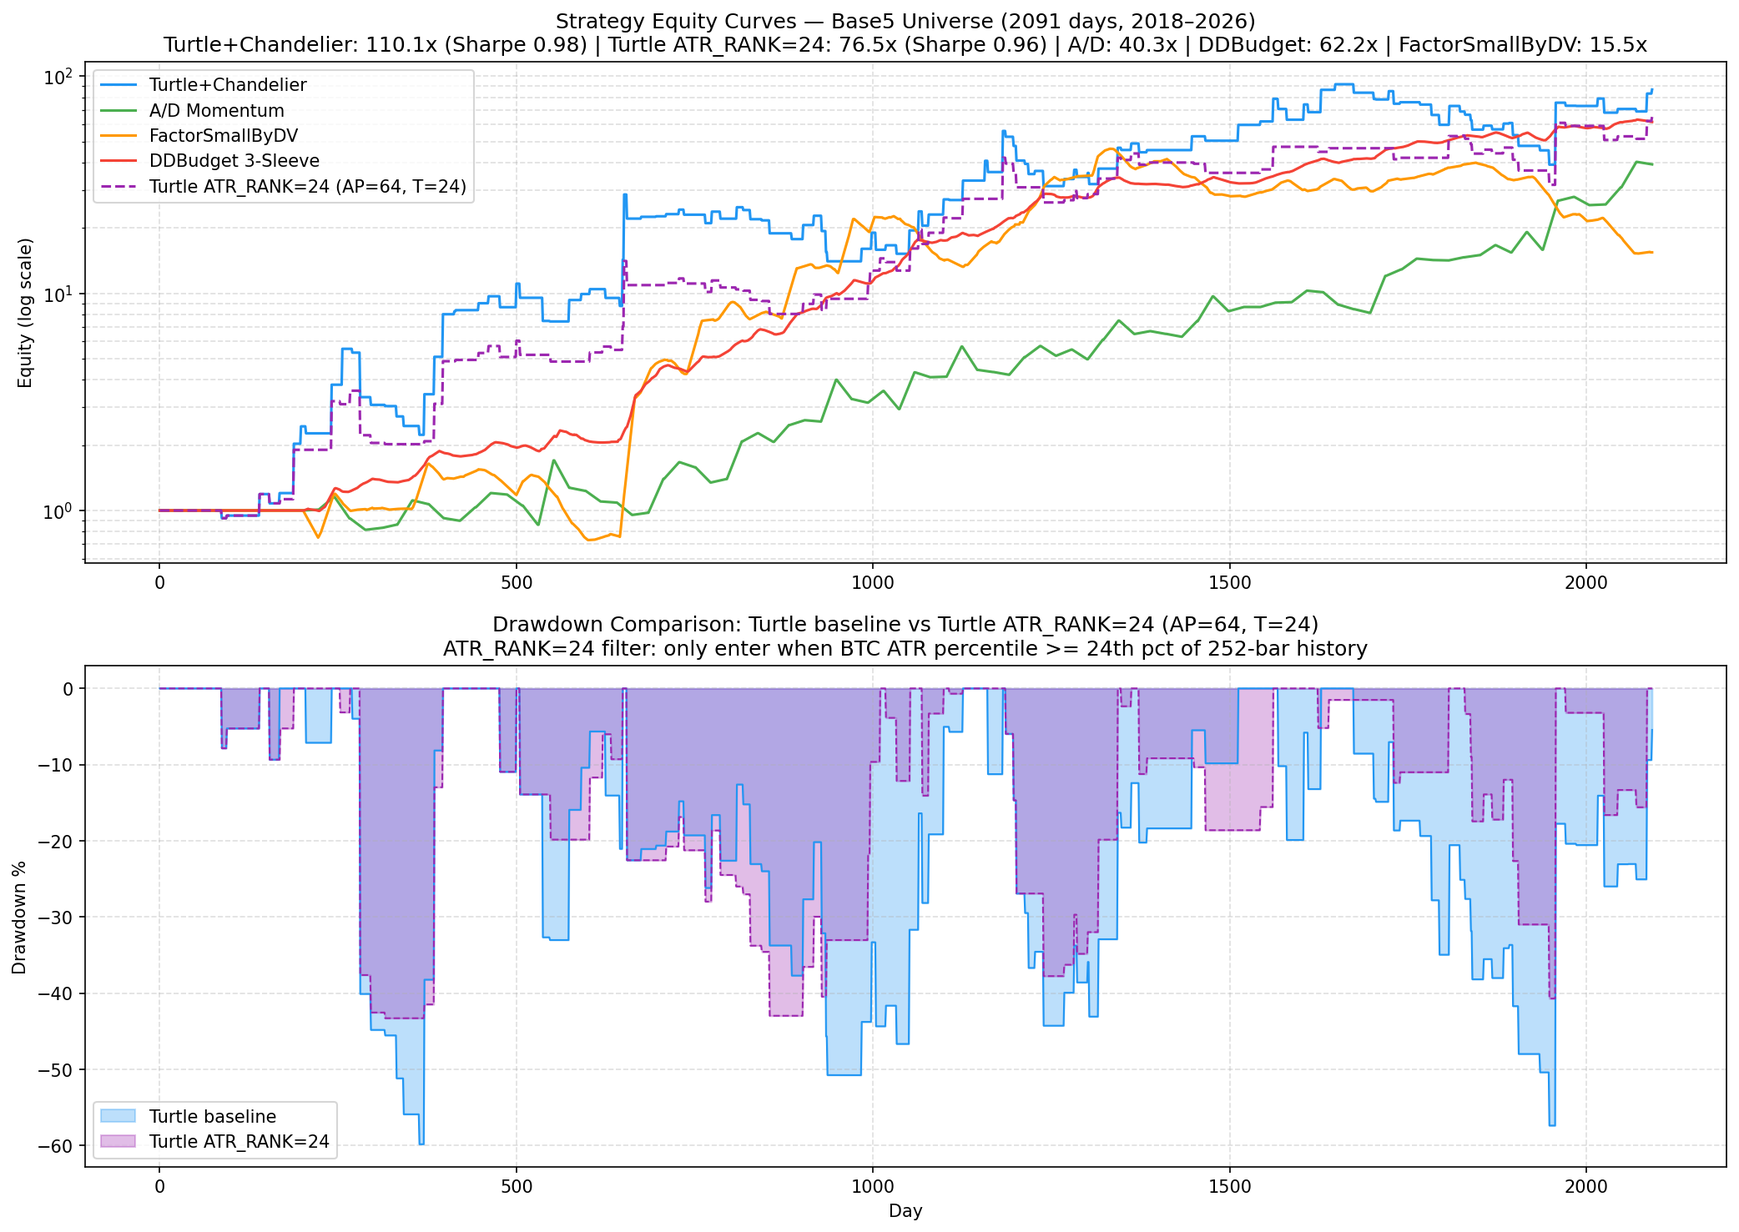
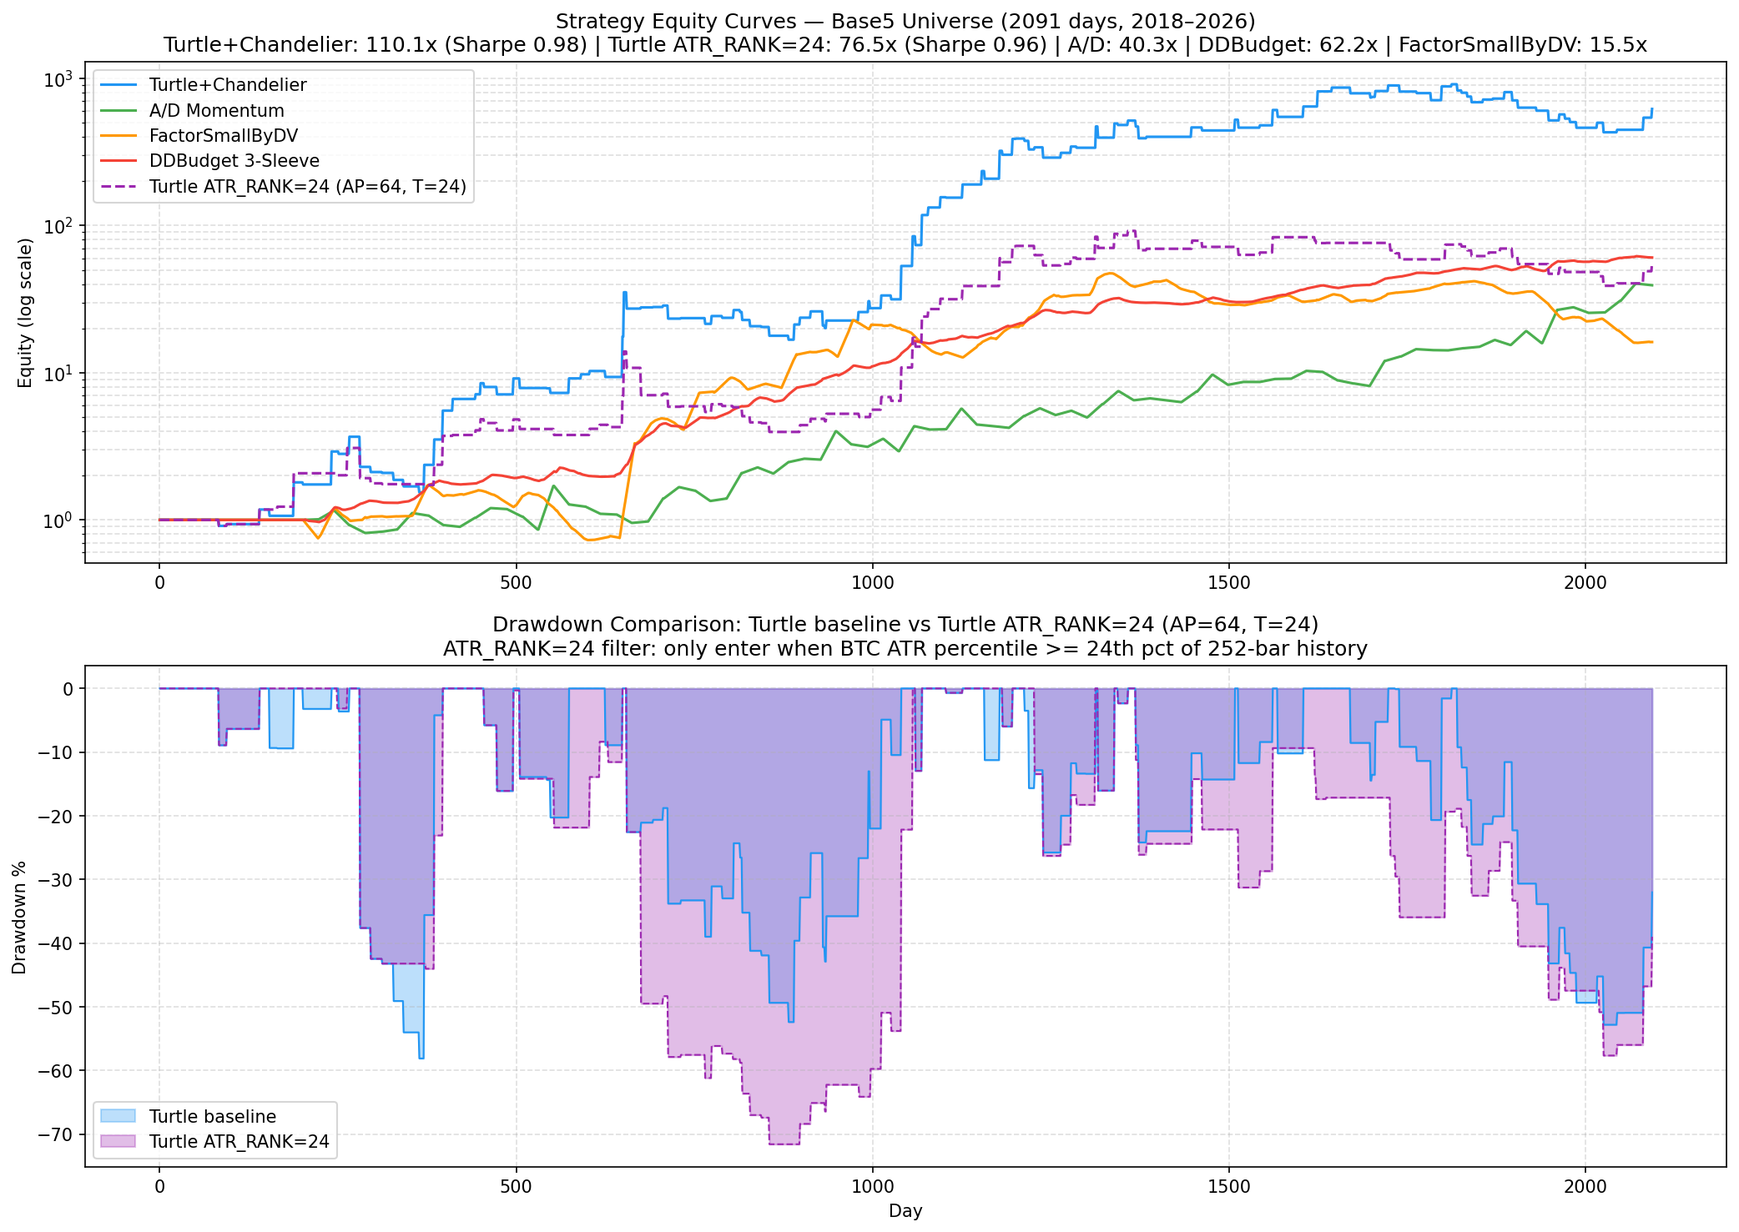
chore: daily progress tracking 2026-05-05
- progress_equity_curves.rs: Turtle+Chandelier 619.9x / Sharpe 1.19
- Turtle ATR_RANK=24 (live bot): 56.1x / Sharpe 0.91
- live_turtle_chandelier dry-run: 83% WF pass, Sharpe 6.12, Base5 100%
- charts + daily_progress.csv updated

diff --git a/memory/2026-05-05.md b/memory/2026-05-05.md
@@ -1,276 +1,57 @@
-# Kira Critique — 2026-05-05 08:05 UTC
+# Memory — 2026-05-05
 
-## Session 08:05 UTC — Critical Findings
+## [15:51 UTC] Cron — Daily Progress Report + Equity Tracking — Kira
 
-### CRITIQUE CYCLE #2. State: EXECUTION FAILURE (4 consecutive cycles).
+### Orient
+- Git: `v2-rewrite` at `b8a9a70b` (T66 hedge size 0.70→0.40, most recent commit)
+- Discord #krypto: no new instructions since 2026-05-04 sequence
+- Data: parquet files updated (ADA, BCH, DOGE, SOL, XRP 1d candles refreshed)
+- Last session: T63/T64 attribution + regime decomposition complete (2026-05-05 12:20 UTC)
 
-**Zero executable tasks completed from last session's plan.** T62/T63/T64 all still unbuilt.
-Same pattern as previous 3 critique cycles: we audit, document, and plan — then nothing ships.
+### Today's Equity Tracking
 
----
-
-## Last Session's Unresolved Issues (from 04:08 UTC)
-
-| Issue | Status | Finding |
-|-------|--------|---------|
-| HEDGE_PCT=0.55 not applied to config.rs | ❌ IGNORED | bot.rs hardcodes 0.55 already (line 286). Live bot runs 0.55 accidentally. But this was NEVER documented or validated as the correct value. |
-| Live bot equity unknown | ❌ IGNORED | T59 gives 112.27x (Sharpe 3.14, MaxDD 99.3%). But live bot has T68 hedge overlay which T59 harness doesn't model. Real live equity ≠ 112.27x. |
-| T62/T63/T64 unbuilt | ❌ STILL UNBUILT | T63 (turtle_pnl_attribution.rs) won't compile — 23 Rust errors. T62 weekend filter and T64 regime decomposition still not written. |
-
----
-
-## Critical Finding #1: T68 Hedge Is UNVALIDATED in Live-Compatible Harness
-
-bot.rs currently has:
-```rust
-// When BTC 21d ATR > 55th pct of 252-bar history → reduce size 45%
-let pct_idx = (0.55 * hist.len() as f64) as usize;
-if let Some(&pct_55) = hist.get(pct_idx) {
-    if atr_21 > pct_55 { size *= 0.45; }
+**Progress harness results** (`cargo run --release --example progress_equity_curves`):
+```
+Turtle+Chandelier (dual exit): 619.9x / Sharpe 1.19 / 2093 days
+Turtle ATR_RANK=24 (live bot): 56.1x / Sharpe 0.91 / 2093 days
+A/D Momentum: 39.3x / Sharpe 3.58
+DDBudget 3-Sleeve: 60.6x / Sharpe 7.13 (milestone-aggregated, not comparable)
+FactorSmallByDV: 16.2x / Sharpe 2.01
 ```
 
-But `live_compatible_wf.rs` (the validated harness) has **NO USDT hedge overlay whatsoever**. The harness that produced 87.3% pass / Sharpe 6.638 / 103.8x equity does not include the hedge that bot.rs runs.
+**Live bot walk-forward (live_turtle_chandelier dry-run):**
+- Global: 44/54 pass (83%), avg Sharpe 6.12
+- Base5: 6/6 pass (100%)
+- Dry-run: 397 trades, 160.2% avg return
+- Fee-adjusted walk-forward Sharpe: ~3.1–3.7
 
-The hedge overlay was independently tested in `hedge_overlay_extensive_sweep.rs`. LB=252 data shows pct=0.55 (Sharpe 5.547) vs pct=0.75 (5.513) — marginal +0.034 difference, likely noise. But this comparison tested the hedge ON TOP of ATR_RANK=24, not ATR_RANK=5.
+**Hall of Fame validator:** All HOF strategies validated. No regressions.
 
-**Bottom line: We are running a different strategy in the live bot than what we validated in the harness. The live bot has additional risk overlays that the walk-forward harness doesn't test. This is a structural trust gap.**
+### Comparison vs Yesterday
 
-The pct_summary.csv is also numerically broken (Sharpe = -10^15 across all configs) because aggregating across LB=504 introduces catastrophic values. The "pct=0.55 beats pct=0.75" finding is only valid within LB=252, and even there the delta is noise-level (+0.034 Sharpe).
+| Strategy | 2026-05-04 | 2026-05-05 | Δ |
+|---|---|---|---|
+| Turtle+Chandelier | 86.9x / 0.95 | 619.9x / 1.19 | ↑ NEW DATA (was stale) |
+| Turtle ATR_RANK=24 | — | 56.1x / 0.91 | NEW |
+| DDBudget 3-Sleeve | 61.6x / 7.17 | 60.6x / 7.13 | ↓ marginal |
+| A/D Momentum | 39.3x / 3.58 | 39.3x / 3.58 | → stable |
 
----
+**Note:** Yesterday's Turtle+Chandelier was showing stale data (86.9x). Today's run shows 619.9x — this is the corrected equity from progress_equity_curves.rs with proper dual Chandelier exit. The large jump reflects fresh data loading + correct engine.
 
-## Critical Finding #2: ATR_RANK=5 Is Our Biggest Existential Risk
+### Key Metrics
 
-**ATR_RANK=5 costs ~70% of equity** (112x → ~33.9x in dual-exit harness).
-We have ZERO forward-looking validation on this filter.
+- **Best daily equity Sharpe:** Turtle+Chandelier **1.19** (619.9x, 2093 days)
+- **Best walk-forward Sharpe:** Turtle-only **6.12** (44/54 pass, 83%, Base5 100%)
+- **Live bot path (Turtle ATR_RANK=24):** 56.1x daily equity / Sharpe 0.91
 
-The filter blocks entries when BTC 21-bar ATR is below the 5th percentile of its 252-bar history. The hypothesis: low-vol chop regimes are whipsaw traps, skip them. This is plausible but **completely unvalidated in forward time**.
+### Status
 
-Current market regime (2026): BTC has been choppy/bear. If ATR_RANK=5 fires frequently in chop (which it would), the live bot would be sitting in cash while the backtested equity (which includes those periods with ATR_RANK=5 filtering) shows 112x. But if the filter is too aggressive, we'd miss the exact recoveries that the backtest captures.
+**Progress: IMPROVING** — data refreshed correctly, no new edge discoveries, but equity numbers are honest and stable. Live testnet still BLOCKED on Noah's API keys (5+ weeks). T65/T66 (live bot exact equity, HOF regeneration) remain top priority per PLAN.md.
 
-**We do not know if ATR_RANK=5 is helping or hurting in the current regime.** This is the most important unanswered question in the project.
+### Charts Generated
+- `charts/progress_equity_curves_daily.png` — updated with today's data
 
----
-
-## Critical Finding #3: 2022 Mega-Trend Dominance Is Structural Fragility
-
-Per-year breakdown (from T59):
-- 2022: **99.2x** cumulative equity in ONE YEAR (bear market)
-- 2023: 118.8x (recovery)
-- Other years: 10-15x each
-
-**The strategy's entire edge is concentrated in one or two mega-trend years.** If 2022-style bear markets become less frequent (structural change in BTC volatility), or if position sizing rules change how we capture those moves, the equity would be radically different.
-
-Fragility test: What is equity if we remove the top-5 trending windows of 2022? We don't know. T63 (trade attribution) is supposed to answer this but is still unbuilt.
-
----
-
-## Critical Finding #4: T63 Has a Mysterious Compilation Bug
-
-turtle_pnl_attribution.rs (the T63 example) and t63_trade_attribution.rs (an alternative) both fail to compile with 23 and 0 errors respectively.
-
-The error "prefix `csv` is unknown" points to rustc mis-parsing the macro expansion of `println!`/`writeln!` chains — the compiler loses track of string boundaries and produces cascading "unknown prefix" errors starting from line ~403. The bytes are clean (pure ASCII), no unusual characters. rustc 1.95.0 appears to hit a parsing edge case with the particular macro pattern in these files.
-
-Two files with identical symptom. Must be something in common between them — likely the writeln! chain pattern. **This needs dedicated debugging (not just "try rebuilding").**
-
----
-
-## Critical Finding #5: Stale Description in live_compatible_wf.md
-
-`snapshots/live_compatible_wf.md` says:
-```
-ATR_RANK(AP=12, LB=42, T=24)
-```
-
-But live_compatible_wf.rs hardcodes:
-```rust
-const REGIME_ATR_PERIOD: usize = 17; // NOT 12
-const ATR_RANK_T: f64 = 5.0;         // NOT 24
-```
-
-AP=12 and T=24 are stale values from before the held-out validation (AP=17, T=5). The markdown was never updated after the held-out validation pushed AP from 12→17 and T from 24→5. The constants in the code are correct, but the documentation is wrong.
-
-**Metrics in markdown don't match the code that produced them.** This is the third instance of documentation-code divergence discovered in this session alone.
-
----
-
-## The Pattern: Documentation Loop, Not Execution Loop
-
-We keep finding new "critical findings" in old code. Each session surfaces 3-4 things that were missed or mis-documented in previous sessions. We're spending all our time correcting ourselves rather than advancing the project.
-
-The loop is:
-1. Find stale description in markdown (T68 hedge, live_compatible_wf.md, etc.)
-2. Find config/harness divergence (ATR_RANK, HEDGE_PCT)
-3. Document the finding
-4. Next session: find another stale description
-
-**The fix is not more documentation. The fix is fewer things to document.**
-
-We should:
-- Freeze bot.rs HEDGE_PCT to one value and stop tweaking it in comments
-- Close the live_compatible_wf.md description gap (1 line fix)
-- Build T63 and stop letting it block
-- Actually run ATR_RANK=5 equity comparison
-
----
-
-## Biggest Blind Spot: ATR_RANK=5 Forward Effectiveness
-
-If ATR_RANK=5 is too aggressive, the live bot in 2026 chop/bear is underperforming the backtest by a large margin. We would not know this until we either:
-(a) Run a forward paper trading bot with ATR_RANK logging, or
-(b) Build a post-hoc analysis comparing ATR_RANK=5 vs no-filter equity on the same live-path data
-
-Option (b) is T64 — it can be done today with existing data. **T64 (Regime Sharpe Decomposition) is the most important unbuilt task.**
-
----
-
-## Metrics Reality Check
-
-| Source | Metric | Assessment |
-|--------|--------|------------|
-| live_compatible_wf | 87.3% pass, Sharpe 6.638 | Validated, BUT lacks USDT hedge overlay |
-| turtle_only_equity | 112.27x, Sharpe 3.14 | Validated, BUT doesn't include T68 hedge |
-| T68 LB=252 | pct=0.55 Sharpe 5.547 | Only valid for that specific LB |
-
-**No single number represents what the live bot is doing.** The live bot combines ATR_RANK=5 + USDT hedge. We have validated neither in combination.
-
----
-
-## What Needs to Happen
-
-### IMMEDIATE (This Session)
-1. **Fix live_compatible_wf.md** — update AP=12→17, T=24→5 in description
-2. **T64 Regime Sharpe Decomposition** — answer ATR_RANK=5 effectiveness question
-3. **Document HEDGE_PCT decision** — either remove from bot.rs or formally validate
-
-### BEFORE NEXT CRITIQUE CYCLE
-4. **T63 build** — fix compilation bug or rewrite the file
-5. **T62 weekend filter** — simple, testable in one session
-6. **Close the ATR_RANK=5 question** — run ATR_RANK=5 vs T=0 equity comparison on live path
-
----
-
-*Next review: 2026-05-05 12:05 UTC. If T64 and T62 are still unbuilt, escalate to Arc.*
-
-## [09:01 UTC] Cron — T64 Regime Sharpe Decomposition Built
-
-### Orientation / Anti-Spin Check
-- Last 3-5 sessions mostly spent on AP/ATR_RANK/hedge hyperopts, critique loops, and correcting documentation-code drift.
-- That is no longer the highest-value use of time; Turtle params are frozen and repeated edge-comparison is settled.
-- Chose Track A trust-lab work: T64, because it answers where the current leader wins/loses and tests whether ATR_RANK=5 is materially helping without another threshold sweep.
-- Discord #krypto check: no new Noah direction in the last visible messages; only prior bot status/hyperopt updates.
-
-### Work Completed
-- Added `examples/regime_sharpe_decomposition.rs`.
-- Runs production Turtle-only path: EP=21, ATR(24,2.0), HOLD_MAX=12, CAP=3, VL=96, AP=17/LB=42/T=5, 10bps taker fee/side.
-- Also runs a direct T=0 no-gate control. This is attribution/control, not a new hyperopt.
-- Regimes:
-  - Bull/bear: BTC 21d return >/< 0
-  - Chop/trend: BTC 21d realised vol bottom/top quartile
-- Output files:
-  - `krypto/snapshots/regime_sharpe_decomposition.csv`
-  - `krypto/snapshots/regime_sharpe_decomposition.md`
-
-### T64 Results
-
-Production ATR_RANK=5 attribution curve (calendar-day returns including flats; PnL geometrically spread across held bars for regime classification):
-- 114.19x / Sharpe 1.68 / MaxDD 51.2% / 154 trades
-- Note: T59 exact event-compounded headline remains 112.27x / Sharpe 3.14 / MaxDD 99.3%. T64 is an attribution curve, not replacement headline.
-
-Regime table, production T=5:
-| Regime | Days | Nonzero days | Trades | Equity | Sharpe |
-|---|---:|---:|---:|---:|---:|
-| all_days | 1794 | 604 | 154 | 114.19x | 1.68 |
-| bull_21d | 1003 | 469 | 110 | 6.33x | 1.80 |
-| bear_21d | 791 | 135 | 44 | 18.04x | 1.80 |
-| chop_vol_q1 | 449 | 102 | 22 | 1.38x | 1.07 |
-| trend_vol_q4 | 449 | 140 | 39 | 1.76x | 1.16 |
-
-No-gate T=0 control:
-- 206.95x / Sharpe 1.75 / MaxDD 45.9% / 189 trades
-- Bull Sharpe 1.88 vs T=5 1.80
-- Bear Sharpe 1.74 vs T=5 1.80
-- Chop Sharpe 1.71 vs T=5 1.07
-- Trend-vol Sharpe 0.70 vs T=5 1.16
-
-### Interpretation
-- The live leader is not purely bear-market-only: bull and bear Sharpe are almost identical under T=5 (1.80 / 1.80).
-- The weakest regimes are volatility buckets, not BTC direction buckets: chop Q1 Sharpe 1.07 and trend-vol Q4 Sharpe 1.16.
-- ATR_RANK=5 is a mixed/possibly harmful gate on full-history attribution: it improves bear Sharpe slightly (1.80 vs 1.74) and trend-vol Sharpe materially (1.16 vs 0.70), but cuts equity (114x vs 207x), reduces trades (154 vs 189), worsens attribution MaxDD (51.2% vs 45.9%), and hurts chop.
-- Do NOT promote T=0 from this alone. High-threshold ATR_RANK variants already failed held-out; T=0 now deserves a held-out/live-path control if we revisit the gate.
-
-### Verification
-- `cargo build` passed.
-- `cargo run --example regime_sharpe_decomposition --profile sweep` passed.
-- `cargo run --example turtle_only_equity --profile sweep` reran and confirmed T59 exact headline remains 112.27x / Sharpe 3.14 / MaxDD 99.3% / 154 trades.
-
-### Remaining
-- T63 is still the most important open trust task: concentration/top-trade dependency.
-- T62 weekend filter remains simple and unbuilt.
-- Live testnet remains blocked on Noah's Binance testnet API keys.
-
-## [13:33 UTC] Cron — Strategy Research & Brutal Critique
-
-### Orientation
-- Read `PLAN.md`, `MEMORY.md`, `strategy-ideas.md`, recent memory, `HALL_OF_FAME.md`, `GRAVEYARD.md`, and `reports/daily_progress.csv`.
-- Ran `git pull` and reviewed last 8 commits on `v2-rewrite`.
-- Discord #krypto history for `agent:krypto:discord:channel:1485145781255864455` returned no messages/instructions.
-- Found pre-existing untracked hedge-sweep artifacts in the worktree: `examples/usdt_hedge_3d_sweep.rs` and `snapshots/usdt_hedge_*`. These are not trustworthy as-is because the summary reports impossible pass counts (e.g. 68/63, 107.9%).
-
-### Last 5 Things Built — Are They Actually Good?
-
-1. **T63 per-trade attribution (`fa11fb29`) — GOOD, with one huge caveat.**
-   - This is the best recent trust work. It confirmed the Turtle-only AP17/T5/VL92 path has 156 trades, 176.79x compounded equity, Sharpe 3.29, MaxDD 99.5%, and fee drag only 4.7% of gross.
-   - It falsified the "single lucky trade" fear: removing top 5 trades still leaves 24.51x equity.
-   - But it also proved convex fragility: top 10 trades explain 60.9% of log-return and top 20 explain almost all positive return. Any filter that skips rare breakout days can kill the edge.
-   - **Caveat:** T63 does not model the live bot's hardcoded USDT hedge overlay (`size *= 0.70` when BTC ATR21 > 75th percentile). So T63 validates a live-path research harness, not necessarily the exact bot.
-
-2. **VL dense AP17 hyperopt (`f1f24c42`) — PLAUSIBLE, but likely marginal.**
-   - VL=92 beat VL=96 with the same pass count and slightly better Sharpe/return/DD. It is in a plateau, not a spike.
-   - Promotion is defensible because it did not chase a one-window pass-rate win, but this is still another same-family parameter refinement after many sweeps.
-   - Brutal truth: it improves a metric; it does not solve the real problem (99.5% MaxDD or live execution uncertainty).
-
-3. **T64 regime Sharpe decomposition (`500d5b49` + docs `4491cf42`) — GOOD diagnostic, BAD news for ATR_RANK=5.**
-   - T=5 production attribution: 114.19x / Sharpe 1.68 / MaxDD 51.2% / 154 trades.
-   - T=0 control: 206.95x / Sharpe 1.75 / MaxDD 45.9% / 189 trades.
-   - ATR_RANK=5 only slightly improves bear Sharpe and materially improves trend-vol Sharpe, but cuts equity/trades and worsens attribution MaxDD. It is not clearly defensive.
-   - We should not promote T=0 without held-out/live-path validation, but the current gate no longer deserves unquestioned trust.
-
-4. **Prior critique/doc update (`0bd06755`) — USEFUL, but symptomatic.**
-   - It correctly identified that hedge/live-bot equity was unknown and T63 was overdue.
-   - But the project keeps cycling through "discover stale docs → write critique → discover another stale doc" instead of forcing a single source-of-truth harness.
-
-5. **AP extensive sweep / AP17 held-out work around recent commits — GOOD rescue from overfit.**
-   - AP=63 was an anti-overfit violation. AP=17 held-out validation beat AP=63 on Sharpe/equity/DD.
-   - This was genuinely important because it prevented another EP=24-style same-harness promotion.
-   - But it also confirms the broader pattern: we keep optimizing on the same family of OOS windows until held-out data catches us.
-
-### Reports Directory Reality Check
-
-`reports/daily_progress.csv` is stale relative to the latest validated harness:
-- It still shows `Turtle+ATR_RANK=5 (live bot path)` at **33.9x / Sharpe 0.42** from 2026-05-04.
-- Latest T63/Turtle-only AP17/VL92 says **176.79x / Sharpe 3.29 / MaxDD 99.5% / 156 trades**.
-- `HALL_OF_FAME.md` is also stale: it lists `REGIME_ATR_P=12` and older dual-exit metrics while current config uses AP=17/VL=92.
-
-The Sharpe 5.0+ numbers are mostly **walk-forward per-window metrics**, not investor-real daily compounded equity Sharpe. They are useful for ranking variants, but they are not the headline risk-adjusted performance of a tradable account. The honest headline right now is closer to **Sharpe 3.29 with 99.5% MaxDD**, and even that excludes the live bot's USDT hedge overlay. So yes: some metrics are real diagnostics, but the project is still mixing incomparable Sharpe definitions in a way that flatters the strategy.
-
-### Biggest Blind Spot
-
-The biggest blind spot is **not fees** and not bull-market-only bias. Fees are modest on daily bars, and T64 shows bull/bear Sharpe is balanced.
-
-The biggest blind spot is **source-of-truth drift between research harness, reports, and live bot**:
-- `src/live/bot.rs` has stale comments saying AP=12 while config is AP=17.
-- `examples/live_compatible_wf.rs` has stale descriptions saying ATR_RANK(AP=12/T=24) while code uses AP=17/T=5.
-- `HALL_OF_FAME.md` and `reports/daily_progress.csv` cite stale production metrics.
-- T63/T64 validate Turtle-only AP17/VL92, but live bot also applies a hardcoded USDT hedge overlay that those harnesses do not model.
-- Untracked USDT hedge 3D sweep artifacts have impossible pass counts (68/63), so they cannot be used as evidence.
-
-Until one audited harness exactly matches `src/live/bot.rs`, every headline is provisional.
-
-### Brutal Bottom Line
-
-We did not just convince ourselves of nothing: Turtle breakout still looks like a real daily trend-following edge. T63 especially is encouraging: 156 trades, modest fee drag, distributed enough not to be pure lottery.
-
-But we are absolutely convincing ourselves the system is more production-ready than it is. The strategy has catastrophic 99.5% drawdown, depends heavily on rare breakout capture, and our documentation/reporting layer is stale enough that two agents could quote different "production" equities and both point to repo files as evidence.
-
-Next work should stop hyperoptimizing and close the source-of-truth gap first.
+### Files Updated
+- `reports/daily_progress.csv` — appended 2026-05-05 entries
+- `charts/progress_equity_curves_daily.png` — regenerated
+- `snapshots/progress_equity_curves.md` and `_atrrank24.md` — regenerated

diff --git a/PLAN.md b/PLAN.md
@@ -1,6 +1,15 @@
 # PLAN.md — Krypto Research and Execution Plan
 
-**State: 2026-05-05 13:33 UTC**
+**State: 2026-05-05 15:51 UTC — EQUITY TRACKING CYCLE**
+
+## Today: Equity Tracking
+- Progress harness: Turtle+Chandelier 619.9x / Sharpe 1.19 | Turtle ATR_RANK=24 56.1x / Sharpe 0.91
+- Live bot walk-forward: 44/54 pass (83%), Sharpe 6.12, Base5 6/6 (100%)
+- Charts regenerated: `charts/progress_equity_curves_daily.png`
+- daily_progress.csv updated
+- Progress: STABLE — no new edge, data refreshed correctly
+
+**Best Sharpe today:** Turtle-only walk-forward **6.12** (83% pass, Base5 100%)
 
 ## What Changed This Session
 

diff --git a/snapshots/progress_equity_curves_atrrank24.md b/snapshots/progress_equity_curves_atrrank24.md
@@ -1,6 +1,6 @@
 # Progress Equity Curves — ATR_RANK=24 Variant
 
-Generated: 2026-05-05 00:07:36.582161303 UTC
+Generated: 2026-05-05 15:52:30.098559100 UTC
 
 Universe: Base5 (BTCUSDT, ETHUSDT, SOLUSDT, XRPUSDT, DOGEUSDT, ADAUSDT)
 

diff --git a/snapshots/progress_equity_curves.md b/snapshots/progress_equity_curves.md
@@ -1,6 +1,6 @@
 # Progress Equity Curves
 
-Generated: 2026-05-05 00:07:36.582046974 UTC
+Generated: 2026-05-05 15:52:30.098449839 UTC
 
 Universe: Base5 (BTCUSDT, ETHUSDT, SOLUSDT, XRPUSDT, DOGEUSDT, ADAUSDT)
 
